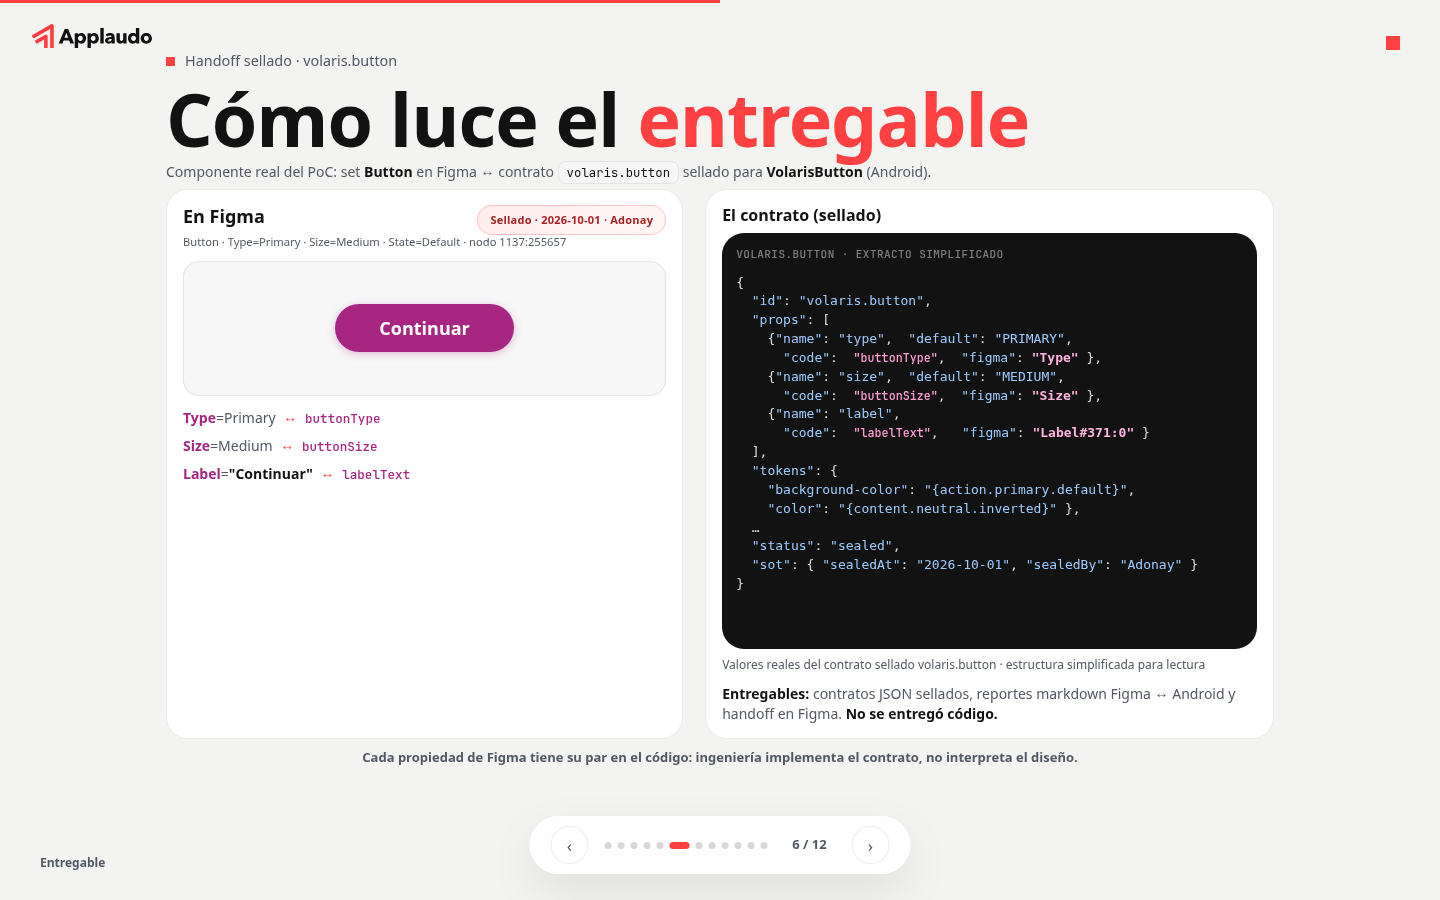
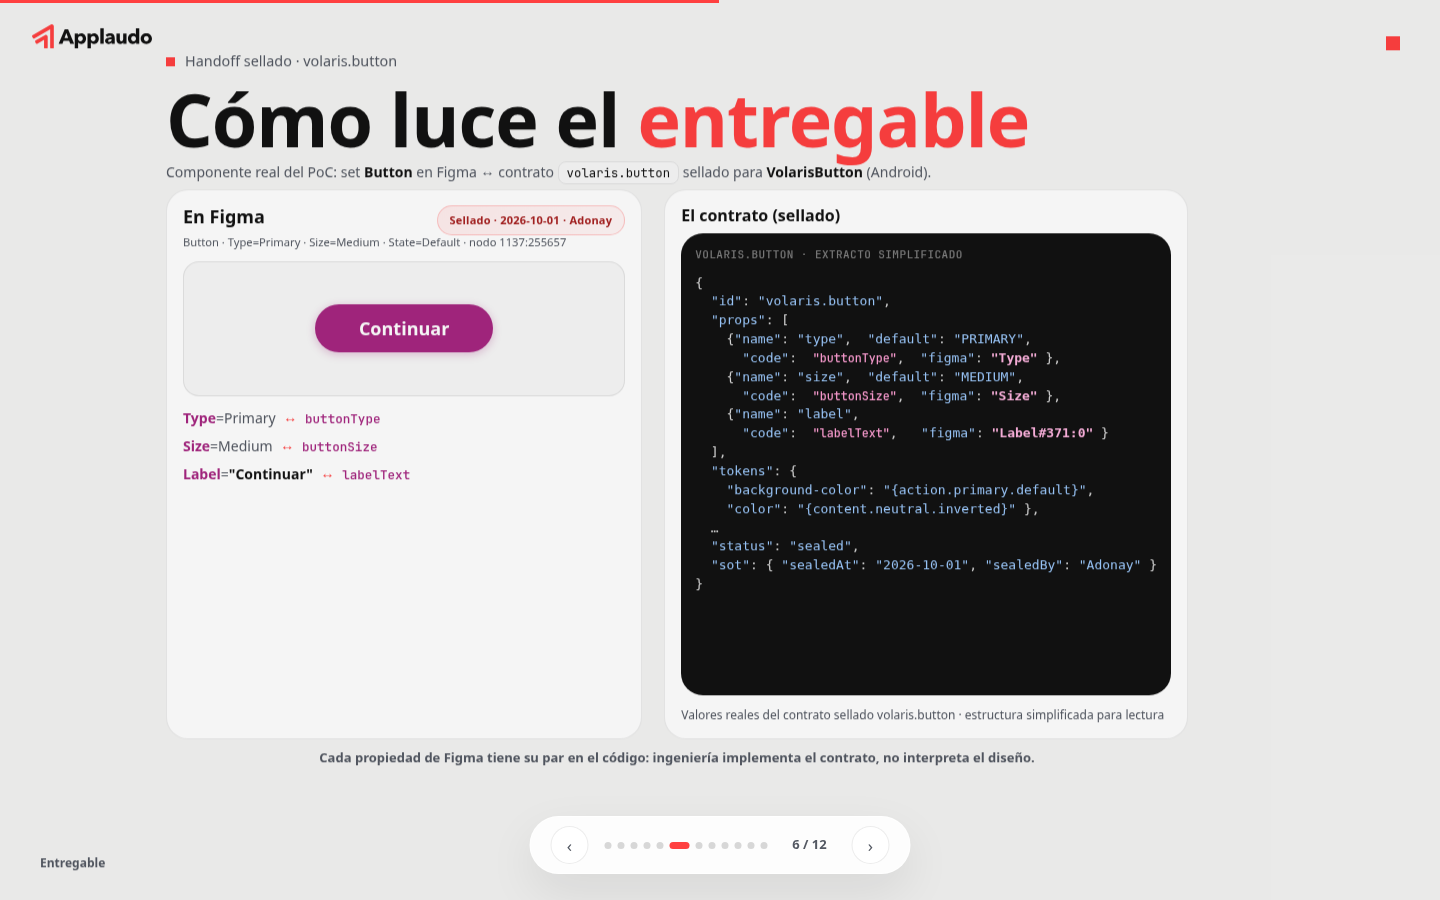
Remove deliverables blurb from slide 6 entregable card
Drop the extra Entregables paragraph; keep button, JSON, caption, and takeaway.

diff --git a/tres-caminos/css/applaudo-deck.css b/tres-caminos/css/applaudo-deck.css
@@ -308,7 +308,7 @@ button{font-family:inherit}
   flex:1;min-height:0;display:flex;flex-direction:column;overflow:hidden;margin-top:6px;
 }
 .deliverable-volaris-slide .contract-code-note{
-  flex:none;margin:8px 0 0;font-size:12px;line-height:1.4;color:var(--gray);max-width:none;
+  flex:none;margin-top:clamp(10px,1.4vh,14px);font-size:12px;line-height:1.4;color:var(--gray);max-width:none;
 }
 .deliverable-panel h3{font-size:1.125rem;margin-bottom:6px;color:var(--ink)}
 .panel-top{display:flex;align-items:flex-start;justify-content:space-between;gap:12px;flex-wrap:wrap}

diff --git a/tres-caminos/index.html b/tres-caminos/index.html
@@ -260,7 +260,6 @@
 }</pre>
         </div>
         <p class="contract-code-note">Valores reales del contrato sellado volaris.button · estructura simplificada para lectura</p>
-        <p class="deliverable-deliverables-line"><strong>Entregables:</strong> contratos JSON sellados, reportes markdown Figma ↔ Android y handoff en Figma. <strong>No se entregó código.</strong></p>
       </div>
     </div>
     <p class="note deliverable-takeaway">Cada propiedad de Figma tiene su par en el código: ingeniería implementa el contrato, no interpreta el diseño.</p>

diff --git a/tres-caminos/css/tres-caminos.css b/tres-caminos/css/tres-caminos.css
@@ -171,10 +171,6 @@
 .cierre-slide .big{max-width:20ch;font-size:clamp(2.4rem,5.5vw,4.2rem);line-height:1.05}
 .cierre-slide .cierre-thanks{margin-top:36px;font-size:clamp(1.25rem,2vw,1.65rem);color:rgba(255,255,255,.88);font-weight:600}
 
-.deliverable-deliverables-line{
-  font-size:.875rem;line-height:1.45;color:var(--gray);margin-top:10px;max-width:none;flex:none;
-}
-
 @media (max-height:760px){
   .deuda-cards .problema-card h4{font-size:1rem}
   .deuda-cards .problema-card p{font-size:.875rem}
